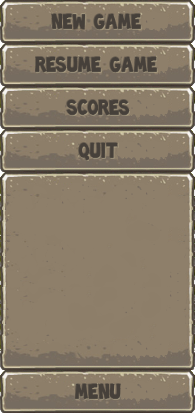
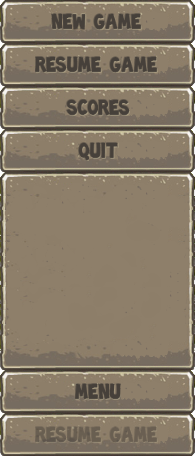
bug z widłami wyłapany
[po usunięciu wszystkiego z list chciał zmieniać wartość tmp->state,
czyli lipa wychodziła]

diff --git a/play.c b/play.c
@@ -118,8 +118,7 @@ void Play_Game(struct Game *game)   {
     else if(game->play.down==true && game->play.dragon_lives>0) al_draw_bitmap_region(game->play.dragon,   152, 0,   152,199,   0,game->play.dragon_pos_y,  0);
     //al_draw_rectangle(game->play.dragon_pos_x-70,game->play.dragon_pos_y+90, game->play.dragon_pos_x+15,game->play.dragon_pos_y+115, al_map_rgb(255,0,0),1); //prostokątna ramka od smoka - kolizja z mąką i widłami
     if(game->play.dragon_floured==true){
-        //al_draw_bitmap_region(game->play.fodder,   245,0,   48,38,   game->play.dragon_pos_x-20,game->play.dragon_pos_y+80, 0);
-        al_draw_tinted_bitmap_region(game->play.fodder,     al_map_rgba_f(0.5, 0.5, 0.5, 0.5),    245,0,   48,38,   game->play.dragon_pos_x-20,game->play.dragon_pos_y+80, 0);
+        al_draw_tinted_bitmap_region(game->play.fodder, al_map_rgba_f(0.5,0.5,0.5,0.5),  245,0,   48,38,   game->play.dragon_pos_x-20,game->play.dragon_pos_y+80, 0);
     }
 
 /*PRZESZKODY LATAJĄCE*/
@@ -143,7 +142,7 @@ void Play_Game(struct Game *game)   {
                 //al_draw_bitmap_region(game->play.fodder,   296,0,   21,18,   otmp->x3,otmp->y3,  0);
                 al_draw_rotated_bitmap(game->play.pitchfork, 10,10, otmp->x3,otmp->y3,  otmp->a*otmp->a*(54.235),   0); //obrót o 25 całkiem ładny
                 otmp->x3-=8;
-               // printf("FORK: %f\t : %f\n",otmp->a,(otmp->a*otmp->a*(54.235) ));
+                //printf("%p\t : %f\n",otmp,otmp->a);
                 otmp->y3 = otmp->a * otmp->x3 + otmp->b;
              }
             otmp=otmp->next;
@@ -236,7 +235,7 @@ void Revive_Dragon(struct Game *game){
     game->play.info=true;
     game->play.dragon_lives-=1;
     game->play.i=0;
-    if(game->play.dragon_lives!=0) Absolute_Free(game);
+    if(game->play.dragon_lives!=0) Absolute_Free(game); //żeby foddery nie zniknęły, gdy smok padnie i zostanie się w stanie gry
    // al_rest(0.5);
     game->play.dragon_frame_x = 0;
     game->play.down = false;

diff --git a/lists.c b/lists.c
@@ -209,7 +209,7 @@ void Free_Obstacles(struct Game *game){
         tmp=game->ofirst;
         game->oprev=NULL;
         while(tmp!=NULL){
-            if(tmp->state==0 || tmp->x1<-50 || tmp->y1<-40 || tmp->x3<-50) {
+            if((tmp->state!=1 && tmp->state!=2) || tmp->x1<-50 || tmp->y1<-40 || tmp->x3<-50) {
                 if(tmp==game->ofirst) {
                     game->ofirst=game->ofirst->next;
                     free(tmp);
@@ -234,6 +234,7 @@ void Collide_Obstacles(struct Game *game){
         struct Obstacles *tmp;
         tmp=game->ofirst;
         while(tmp!=NULL && game->play.dragon_lives>0){
+        printf("%p : %d\n",tmp,tmp->state);
          if(tmp->state==1){                                     //mąka
             if((tmp->x1 + 20 < game->play.dragon_pos_x-70+85) &&
                (tmp->x1 + 48 > game->play.dragon_pos_x-70) &&
@@ -242,8 +243,9 @@ void Collide_Obstacles(struct Game *game){
                 game->play.dragon_floured=true;
                 //game->play.dragon_frame_x=0;
                 game->play.i3=0;
+                tmp->state=0;
                 //Revive_Dragon(game);
-                tmp->state=0; //////////////////////////////////////////////////////////tu jedno =
+
             }
          }
          else if(tmp->state==2){                                //widły
@@ -251,8 +253,9 @@ void Collide_Obstacles(struct Game *game){
                (tmp->x3 + 7 > game->play.dragon_pos_x-70) &&
                (tmp->y3 + 2 < game->play.dragon_pos_y+90+25) &&
                (tmp->y3 + 7 > game->play.dragon_pos_y+90)  ){
+                //tmp->state=0; //to musi być przed Revive, bo tam był Absolute Free, a potem tmp->state chciało zmieniać i były śmieci
                 Revive_Dragon(game);
-                tmp->state=0;//////////////////////////////////////////////////////////tu jedno =
+                break;
             }
          }
             tmp=tmp->next;

diff --git a/main.c b/main.c
@@ -72,7 +72,6 @@ int main(int argc, char **argv) {
         if(!al_reserve_samples(1)){fprintf(stderr, "failed to reserve samples!\n");return -1;}
         if(!al_install_keyboard()){fprintf(stderr, "failed to initialize keyboard!\n");return -1;}
         if(!al_install_mouse()){fprintf(stderr, "failed to initialize mouse!\n");return -1;}
-        al_init_font_addon();
         if(!al_init_ttf_addon()){fprintf(stderr, "failed to initialize fonts!\n");return -1;}
         al_init_primitives_addon();
 //////////////////////*    RÓŻNISTOŚCI  *//////////////////////
@@ -133,7 +132,7 @@ int main(int argc, char **argv) {
     /*  KLAWIATURA   */
         if(event.type == ALLEGRO_EVENT_KEY_DOWN){
             if(event.keyboard.keycode == ALLEGRO_KEY_ESCAPE)    break;  //ESC - wyjście z gry
-            if((event.keyboard.keycode == ALLEGRO_KEY_Q) && (game.gamestate==1 || game.gamestate==2))   game.gamestate=0;   //coś w rodzaju pauzy
+            if((event.keyboard.keycode == ALLEGRO_KEY_Q) && (game.gamestate==1 || game.gamestate==2))   {game.gamestate=0, Update_File(&game);}   //coś w rodzaju pauzy
         }
         al_get_keyboard_state(&game.keyboard);
         if (game.play.dragon_floured==false && (al_key_down(&game.keyboard, ALLEGRO_KEY_UP) || al_key_down(&game.keyboard, ALLEGRO_KEY_W)) && game.gamestate==1 && (event.type == ALLEGRO_EVENT_TIMER) && game.play.dragon_pos_y>-80){
@@ -239,6 +238,5 @@ return 0;
 *17. Dodawanie wyników - gdy się powtarza, do dopisuje jeszcze raz to samo.
 18. Blond-pastuchy rzucają owczym defragmentatorem [na jakiejś wysokości wybuch i rozpirza na czter owce].
 19. Przysick 'OPCJE' zamiast 'SCORED' i tam instrukcję gry też dać.
-20. Wyszarzyć/półprzezroczystość na resume game, gdy nie można resumować.
 
 */

diff --git a/menu.c b/menu.c
@@ -23,7 +23,10 @@ void Menu_Draw(struct Game *game) {
 //PRZYCISKI//
     if(game->gamestate==0){
         al_draw_bitmap_region(game->menu.buttons, 0,0,   195,43,   635,41,  0); //new game
-        al_draw_bitmap_region(game->menu.buttons, 0,43,  195,43,   635,119, 0); //resume game
+        if(game->play.dragon_lives>0)
+            al_draw_bitmap_region(game->menu.buttons, 0,43,  195,43,   635,119, 0); //resume game
+        else
+            al_draw_bitmap_region(game->menu.buttons, 0,413,  195,43,   635,119, 0); //resume game przygaszony
         al_draw_bitmap_region(game->menu.buttons, 0,86,  195,43,   635,197, 0); //scores
         al_draw_bitmap_region(game->menu.buttons, 0,129, 195,43,   635,275, 0); //quit
     }
